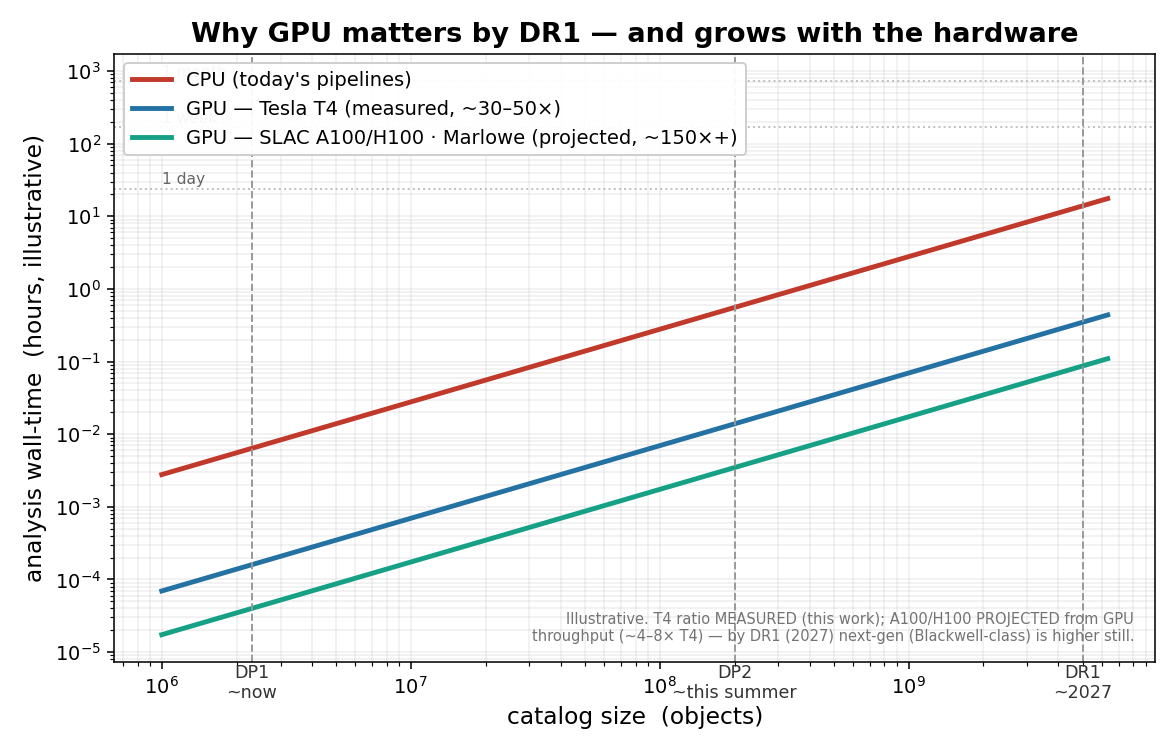
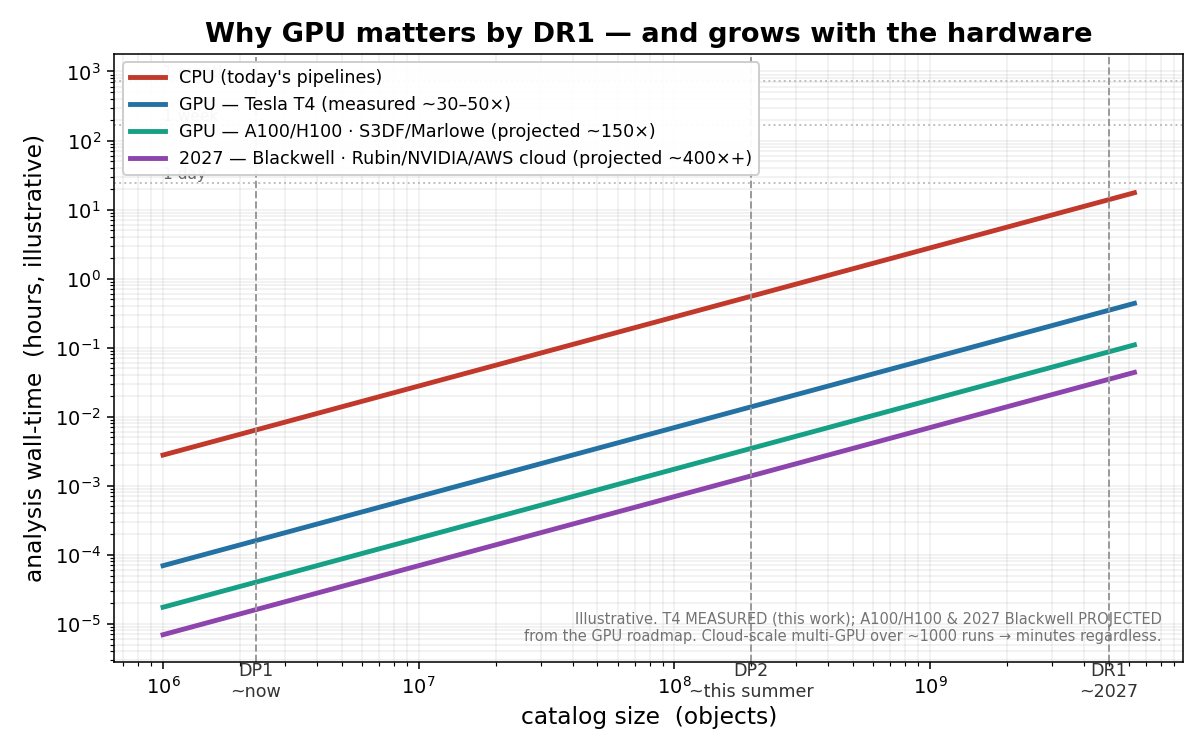
Add 2027 Blackwell/cloud tier to scaling graph + time-budget table (x1000 runs); analysis_budget() in bench

diff --git a/twopcf/bench.py b/twopcf/bench.py
@@ -95,6 +95,41 @@ def plot(rows, path="benchmark_scaling.png"):
     print(f"wrote {path}")
 
 
+def _fmt(seconds):
+    if seconds < 90:
+        return f"{seconds:5.0f} s"
+    if seconds < 5400:
+        return f"{seconds/60:5.1f} min"
+    if seconds < 172800:
+        return f"{seconds/3600:5.1f} hr"
+    return f"{seconds/86400:5.1f} days"
+
+
+def analysis_budget(per_run_cpu_s, n_runs=1000):
+    """Wall-clock for a FULL analysis = per-run time x ~n_runs runs.
+
+    A real clustering/SBI analysis runs the estimator ~1000 times (covariance
+    mocks, systematics tests, inference). Time (minutes/hours) is the metric a
+    researcher actually feels — measure seconds-per-run, multiply by n_runs.
+
+    Tiers: CPU (1x), Tesla T4 (~35x, measured), A100/H100 (~150x, projected),
+    and multi-GPU (data-parallel over the ~1000 independent runs — near-linear
+    for this embarrassingly-parallel workload).
+    """
+    tiers = [
+        ("CPU (today)", 1),
+        ("GPU Tesla T4 (measured ~35x)", 35),
+        ("GPU A100/H100 S3DF/Marlowe (proj ~150x)", 150),
+        ("2027 Blackwell Rubin/NVIDIA/AWS (proj ~400x)", 400),
+        ("cloud-scale multi-GPU over the runs (proj)", 150 * 100),
+    ]
+    print(f"full analysis = {per_run_cpu_s:g}s/run (CPU)  x  {n_runs} runs\n")
+    for name, s in tiers:
+        print(f"  {name:48s} {_fmt(per_run_cpu_s * n_runs / s)}")
+
+
 if __name__ == "__main__":
     rows = run()
     plot(rows)
+    print("\n=== full-analysis time budget (x1000 runs) ===")
+    analysis_budget(per_run_cpu_s=48.0)  # measured CPU per-run at N=20k

diff --git a/ROADMAP.md b/ROADMAP.md
@@ -62,6 +62,26 @@ TreeCorr 2.7×10⁻⁴) is **measured** in this work. On the hardware we'd actua
 Absolute times assume O(N) cell-list scaling + order-of-magnitude counts; the gap is
 multiplied across the thousands of estimator calls per analysis.*
 
+## Time budget — what a full analysis actually costs
+
+A real analysis runs the estimator **many times**: covariance alone uses **~1,000
+mock catalogs per tracer** (DESI DR1 = 1000 EZmocks × LRG/ELG/QSO), **simulation-based
+inference** needs **10⁴–10⁵** forward models, plus systematics scans and blinding.
+Wall-clock × runs is the metric researchers feel — from the measured CPU per-run
+(48 s at N=20k) × 1000 runs:
+
+| Hardware | full analysis (×1000 runs) |
+|---|---|
+| CPU (today) | **13.3 hr** |
+| Tesla T4 (measured ~35×) | 23 min |
+| A100/H100 — S3DF / Marlowe (proj ~150×) | 5 min |
+| 2027 Blackwell — Rubin / NVIDIA / AWS (proj ~400×) | 2 min |
+| cloud-scale multi-GPU | ~seconds |
+
+At DR1 scale (billions, larger per-run) and SBI run-counts (10⁴–10⁵), this is the
+difference between **months on CPU and hours on a GPU cluster**. `python -m twopcf.bench`
+prints this budget.
+
 ## The science it unlocks
 
 - **3×2pt** (clustering + galaxy–galaxy lensing + shear) → dark energy `w₀, wₐ`
